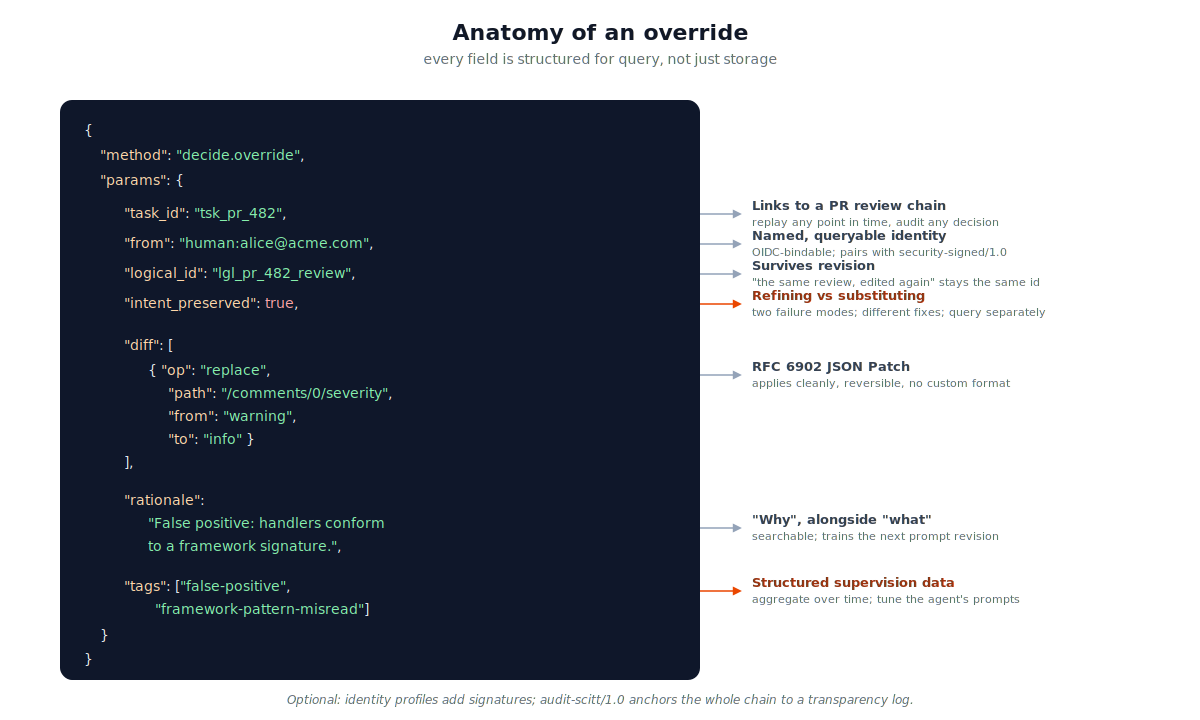
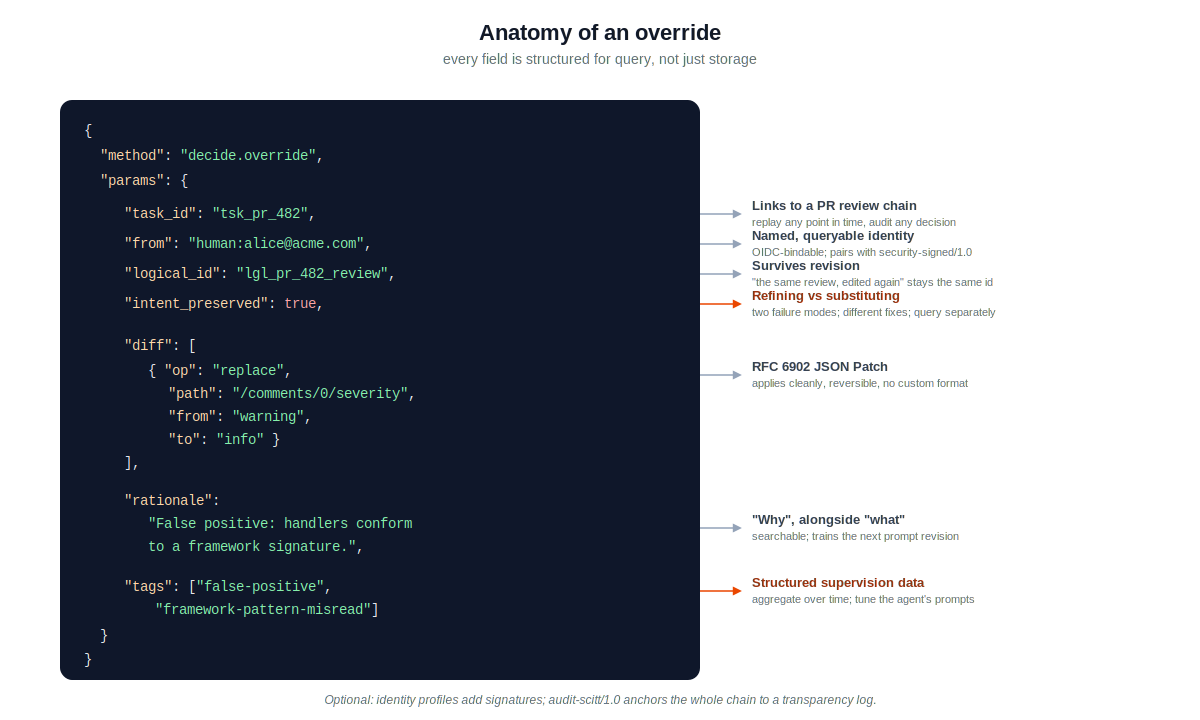
CHAP 0.2: Documentation Refinements ahead of release

diff --git a/demo/index.html b/demo/index.html
@@ -3,7 +3,7 @@
 <head>
 <meta charset="UTF-8">
 <meta name="viewport" content="width=device-width, initial-scale=1.0">
-<title>CHAP — The Collaborative Human-Agent Protocol · Brightbeam</title>
+<title>Collaborative Human-Agent Protocol (CHAP) · Brightbeam</title>
 <style>
 /* ============================================================
    BRIGHTBEAM BRAND TOKENS
@@ -233,7 +233,7 @@ nav.topnav::after {
 }
 .hero-meta strong { font-size: 17px; font-weight: 700; color: var(--black); }
 
-/* HERO ILLUSTRATION — BIG FONTS, ROOMIER CIRCLES */
+/* HERO ILLUSTRATION: big fonts, roomier circles */
 .hero-visual {
   position: relative;
   width: 100%;
@@ -1288,6 +1288,7 @@ section.s { scroll-margin-top: 80px; }
     <a href="#anatomy">Anatomy</a>
     <a href="#dividend">Dividend</a>
     <a href="#profiles">Profiles</a>
+    <a href="https://github.com/BrightbeamAI/chap" target="_blank" rel="noopener">GitHub ↗</a>
   </div>
 </nav>
 
@@ -1303,8 +1304,8 @@ section.s { scroll-margin-top: 80px; }
       </h1>
       <p class="lede reveal reveal--d2">
         CHAP is the open standard for multi-human, multi-agent
-        collaboration. Third pillar of the agent protocol stack —
-        alongside MCP and A2A — for what happens when humans, agents,
+        collaboration. Third pillar of the agent protocol stack
+        (alongside MCP and A2A) for what happens when humans, agents,
         and tools work together in one shared workspace.
       </p>
       <div class="cta-row reveal reveal--d3">
@@ -1322,7 +1323,7 @@ section.s { scroll-margin-top: 80px; }
       </div>
     </div>
 
-    <!-- HERO ILLUSTRATION — larger circles, bigger fonts -->
+    <!-- HERO ILLUSTRATION: larger circles, bigger fonts -->
     <div class="hero-visual reveal reveal--d2">
       <svg viewBox="0 0 520 520" aria-hidden="true">
         <!-- Connection lines between nodes -->
@@ -1381,7 +1382,7 @@ section.s { scroll-margin-top: 80px; }
 
     <p class="story-intro reveal">
       <strong>Maya</strong>, a senior support agent, opens her review
-      queue. Forty-seven customer responses are waiting — drafted
+      queue. Forty-seven customer responses are waiting, drafted
       overnight by an AI agent. She'll approve most. A few she'll
       reject. Some she'll edit before sending.
     </p>
@@ -1416,7 +1417,7 @@ section.s { scroll-margin-top: 80px; }
 
     <p class="reveal">
       Repeat for a year, and you've thrown away the world's richest
-      fine-tuning dataset — the one your humans built for free by
+      fine-tuning dataset: the one your humans built for free by
       doing their normal job.
     </p>
 
@@ -1436,7 +1437,7 @@ section.s { scroll-margin-top: 80px; }
       <div class="section-tag reveal">The analogy</div>
       <h2 class="reveal">It's <em>track changes</em> for&nbsp;AI.</h2>
       <p class="lede reveal">
-        The same shape an editor uses when marking up a writer's draft —
+        The same shape an editor uses when marking up a writer's draft:
         structured for machines as well as for humans.
       </p>
     </div>
@@ -1445,7 +1446,7 @@ section.s { scroll-margin-top: 80px; }
       <div class="compare-panel compare-panel--draft">
         <div class="compare-label">What Maya sees</div>
         <p class="draft-doc">
-          We <span class="strike">sincerely apologise for the extreme delay</span><span class="ins">just wanted to follow up — your order</span> is in transit and will arrive within the next three business days. <span class="strike">We deeply regret any inconvenience caused.</span><span class="ins">Let me know if you don't see it by then.</span>
+          We <span class="strike">sincerely apologise for the extreme delay</span><span class="ins">just wanted to follow up, your order</span> is in transit and will arrive within the next three business days. <span class="strike">We deeply regret any inconvenience caused.</span><span class="ins">Let me know if you don't see it by then.</span>
         </p>
         <span class="draft-note">Tone too apologetic for a routine tracking question</span>
       </div>
@@ -1527,7 +1528,7 @@ section.s { scroll-margin-top: 80px; }
   <div class="container container--narrow" style="margin-top: 72px;">
     <div class="section-subhead reveal">Core in seven methods</div>
     <p class="reveal" style="margin-bottom: 20px;">
-      CHAP Core is the minimum — implementable in a weekend in any
+      CHAP Core is the minimum, implementable in a weekend in any
       language. Seven methods over JSON-RPC 2.0. That's enough to run
       a compliant workspace.
     </p>
@@ -1567,8 +1568,8 @@ section.s { scroll-margin-top: 80px; }
 
     <div class="container container--narrow" style="padding: 0;">
       <p class="reveal">
-        Everything else — structured review, multi-party deliberation,
-        mode promotion, signed audit, identity binding — is an optional
+        Everything else (structured review, multi-party deliberation,
+        mode promotion, signed audit, identity binding) is an optional
         profile layered on top. <em>You pay for what you use.</em>
       </p>
     </div>
@@ -1653,7 +1654,7 @@ section.s { scroll-margin-top: 80px; }
       <h2 class="reveal">Anatomy of <em>an override.</em></h2>
       <p class="lede reveal">
         When Maya edits the bot's draft, four things get recorded
-        together. Every one of them is queryable structured data — no
+        together. Every one of them is queryable structured data, no
         separate tagging step, no manual logging, no afterthought.
       </p>
     </div>
@@ -1726,7 +1727,7 @@ section.s { scroll-margin-top: 80px; }
     <div class="container container--narrow" style="padding: 0; margin-top: 48px;">
       <p class="reveal">
         None of the four fields is novel on its own. The novelty is that
-        they live together as a single typed protocol object — captured
+        they live together as a single typed protocol object, captured
         at the moment of review, preserved in the audit log forever,
         available to anyone with audit access.
       </p>
@@ -1949,9 +1950,10 @@ section.s { scroll-margin-top: 80px; }
     profiles as your workflow demands.
   </p>
   <div class="cta-row">
-    <a href="../core/SPEC.md" class="btn" style="background:#fff;color:var(--ember);border-color:#fff;">
-      Read the Core spec <span class="arrow">→</span>
+    <a href="https://github.com/BrightbeamAI/chap" target="_blank" rel="noopener" class="btn" style="background:#fff;color:var(--ember);border-color:#fff;">
+      View on GitHub <span class="arrow">→</span>
     </a>
+    <a href="../core/SPEC.md" class="btn btn--ghost">Read the Core spec</a>
     <a href="../HANDBOOK.md" class="btn btn--ghost">Read the Handbook</a>
     <a href="../reference/core-plus-review/" class="btn btn--ghost">Run the reference</a>
   </div>

diff --git a/README.md b/README.md
@@ -14,7 +14,7 @@ In CHAP, it lives in an envelope you can query, replay, and verify six months la
 ---
 
 <p align="center">
-  <img src="docs/img/hero-before-after.svg" alt="Same scenario, two stacks: without CHAP your audit trail is scattered across six tools; with CHAP it's a hash-linked chain you can query in one call." width="100%">
+  <img src="docs/img/hero-before-after.svg" alt="Same scenario, two stacks. Without CHAP: six tools holding fragments of one decision (OpenAI logs expired, Zendesk thread, Slack scrolled past, Linear comments, webhook tail, Notion runbook), 45 minutes across four UIs to answer 'what did the bot draft and why did we approve it?'. With CHAP: three hash-linked envelopes (task.create → artefact → decide.override), queryable tags, one audit.read call, 30 seconds." width="100%">
 </p>
 
 ---
@@ -29,7 +29,13 @@ That's the whole pitch.
 
 ## The 90-second tour
 
-A solo developer using Cursor to review pull requests. The bot flags a "warning" the developer disagrees with. Here is the whole exchange.
+A solo developer using Cursor to review pull requests. The bot flags a "warning" the developer disagrees with. Here is the whole exchange, end to end.
+
+<p align="center">
+  <img src="docs/img/hero.gif" alt="Six-frame walkthrough of a real CHAP Core+Review session: workspace setup, agent drafts a response, human overrides with diff + rationale + tags, audit replay shows the full prev_hash-linked chain, override analytics report shows tag distribution and points the next prompt revision at the right problem." width="100%">
+</p>
+
+And here is the code, every line of it.
 
 **1. Spin up a workspace.** Twelve lines, one binary, SQLite for storage:
 
@@ -80,7 +86,7 @@ await coord.dispatch({
 });
 ```
 
-**3. Two months in, analyse what you have been doing.** This is where the protocol starts to pay you back:
+**3. Two months in, analyse what you have been doing.** This is where the protocol pays you back:
 
 ```bash
 $ npx @chap/analyze-overrides wsp_pr_reviews
@@ -108,7 +114,7 @@ Your next prompt revision for Cursor is no longer a guess. It cites the pattern 
 The override envelope is the single most important shape in CHAP. Every field has a job:
 
 <p align="center">
-  <img src="docs/img/override-anatomy.svg" alt="Anatomy of an override envelope, with each field annotated." width="100%">
+  <img src="docs/img/override-anatomy.svg" alt="Anatomy of an override envelope, with each field annotated: task_id links to the PR review chain, from carries queryable identity, logical_id survives revision, intent_preserved separates refining from substituting overrides, diff is RFC 6902 JSON Patch, rationale is the 'why' alongside the 'what', tags are structured supervision data." width="100%">
 </p>
 
 The two fields most people miss on first read are `intent_preserved` and `tags`.
@@ -117,6 +123,27 @@ The two fields most people miss on first read are `intent_preserved` and `tags`.
 
 `tags` is the controlled vocabulary your team agrees on. Keep it small. Whatever you put there is the dimension you will aggregate on three months from now, when you are answering questions like *which prompts need work?* or *which paths is the bot getting consistently wrong?*
 
+## Install
+
+```bash
+npm install @chap/coordinator
+```
+
+That gets you Core plus the `review/1.0` profile, in-memory and SQLite backends, a CLI, and a two-participant playground. The TypeScript reference is in [`reference/`](./reference/); the protocol-as-a-library is [`packages/coordinator/`](./packages/coordinator/).
+
+Five-minute hands-on walkthrough: [`examples/00-five-minute-start.md`](./examples/00-five-minute-start.md).
+
+## What ships today
+
+CHAP 0.2 is a public draft. Concretely, this repo contains:
+
+- **The specification.** Core (seven methods, one envelope, one wire format) plus ten optional profiles. Combined into a single document at [`SPECIFICATION.md`](./SPECIFICATION.md), or read individually from [`core/SPEC.md`](./core/SPEC.md) and [`profiles/`](./profiles/).
+- **One reference implementation in TypeScript.** Core, the `review/1.0` profile, a coordinator, a CLI, an override analyser, and a runnable playground with two human browser sessions and a local LLM. A second interoperable implementation is the most consequential thing remaining before 1.0.
+- **A conformance harness.** 21 test vectors, signing/canonicalisation/chain checks, in-toto attestation output. Two conformance levels are claimable today (Minimal, Recommended); Full waits on the second implementation.
+- **Twelve worked scenarios.** [`IN_PRACTICE.md`](./IN_PRACTICE.md) walks through real cases from a solo developer with Cursor up to GMP-regulated fill-finish manufacturing.
+
+Breaking changes follow Semantic Versioning. Profile surfaces will move faster than Core. Production deployments needing strict stability should wait for 1.0. The longer status statement and the contribution path are in [`ABOUT.md`](./ABOUT.md).
+
 ## What you get when you adopt this
 
 - **An audit chain that survives key rotation, log expiry, and people leaving.** Every envelope links to the previous by content hash. One `audit.read` call returns the whole thing.
@@ -124,18 +151,10 @@ The two fields most people miss on first read are `intent_preserved` and `tags`.
 - **Signed, non-repudiable approvals when you need them.** Opt into `security-signed/1.0` for OIDC-bound signatures with a `signature_meaning` you define. Opt into `audit-scitt/1.0` for an external transparency-log anchor, verifiable without trusting your servers.
 - **Composability with what you have already built.** CHAP does not replace MCP or A2A. It sits next to them: your agent uses MCP for tools, A2A for other agents, and CHAP to record the shared work with humans.
 
-## Install
-
-```bash
-npm install @chap/coordinator
-```
-
-The TypeScript reference implementation includes a Core coordinator, the `review/1.0` profile, in-memory and SQLite backends, a CLI, and a playground for two-participant demos. Full source in [`reference/`](./reference/).
-
 ## Read this next
 
 - **[`IN_PRACTICE.md`](./IN_PRACTICE.md)**. Twelve real-world scenarios from solo dev to GMP-regulated manufacturing. The most useful next read.
-- **[`ABOUT.md`](./ABOUT.md)**. What is in this repo, how CHAP relates to MCP and A2A, the standards it reuses, current status, and how to contribute.
+- **[`ABOUT.md`](./ABOUT.md)**. What is in this repo, how CHAP relates to MCP and A2A, the standards it reuses, and how to contribute.
 - **[`core/SPEC.md`](./core/SPEC.md)**. The seven Core methods. The whole protocol surface fits on one screen.
 
 ---